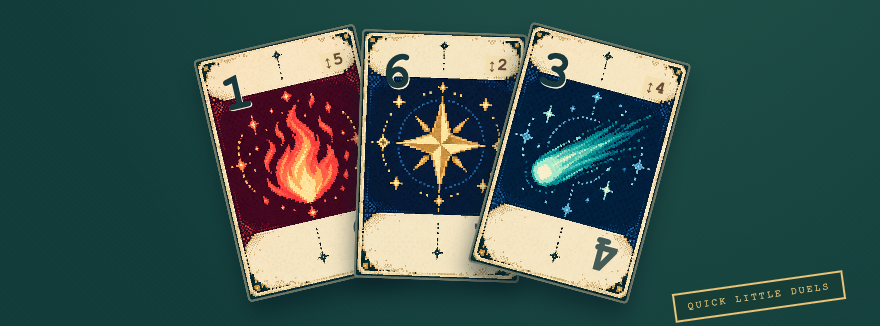
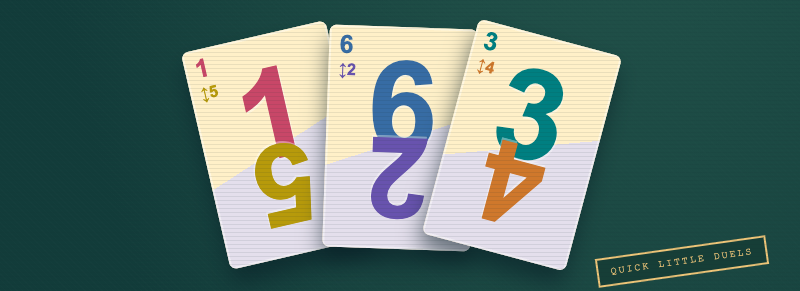
Finish AI playtesting, recovery checks, shared spending and numeric theme previews

diff --git a/flip-it/src/app.js b/flip-it/src/app.js
@@ -1,3 +1,4 @@
+import {trackArcadeGame} from '../../shared/ai/usage.js';
 import {installThemeControls} from '../../shared/theme.js';
 import {loadAI} from '../../shared/ai/config.js';
 import {chooseTurn} from '../../shared/ai/turn.js';
@@ -53,7 +54,7 @@ function notify(message) {
   clearTimeout(toastTimer); toastTimer = setTimeout(() => toast.classList.remove('visible'), 4500);
 }
 function tag() {
-  const label = mode === 'solo' ? 'VS THE DEALER' : mode === 'local' ? 'PASS & PLAY' : connected() ? session.team ? 'TEAM CONNECTED' : 'FRIEND CONNECTED' : 'FRIEND OFFLINE';
+  const label = mode === 'solo' ? (controllers().some(t=>t==='model')?'VS THE AI TABLE':'VS THE DEALER') : mode === 'local' ? 'PASS & PLAY' : connected() ? session.team ? 'TEAM CONNECTED' : 'FRIEND CONNECTED' : 'FRIEND OFFLINE';
   return '<span class="tag ' + (mode === 'online' && !connected() ? 'offline' : '') + '"><span class="dot"></span>' + label + '</span>';
 }
 function cardHtml(card, interactive = false, isPreview = false, tilt = 0) {
@@ -90,7 +91,7 @@ function renderMenu() {
 }
 function renderGame() {
   const v = view(), p = mySeat(), ns = names();
-  let html = '<section class="game-heading"><div><p class="eyebrow">A QUICK LITTLE CARD DUEL</p><h1>Flip it.</h1></div><div class="heading-actions">' + tag() + button('RULES ?', 'rules', 'outline compact') + button('MENU', 'menu', 'outline compact') + '</div></section>';
+  let html = '<section class="game-heading"><div><p class="eyebrow">A QUICK LITTLE CARD TABLE</p><h1>Flip it.</h1></div><div class="heading-actions">' + tag() + button('RULES ?', 'rules', 'outline compact') + button('MENU', 'menu', 'outline compact') + '</div></section>';
   if (mode === 'online' && !connected()) html += '<div class="disconnect" role="status"><span>Your friend is disconnected. The match is saved in the host’s tab.</span>' + button(session.seat ? 'JOIN AGAIN' : 'RECONNECT', session.seat ? 'join' : 'host', 'compact gold') + '</div>';
   html += aiStatusHtml({busy:aiBusy,error:aiError,controller:mode!=='online'||session?.seat===0});
   html += '<div class="table-layout"><aside class="sidebar"><div class="panel"><p class="eyebrow">FIRST TO TWO</p><div class="scoreboard">';
@@ -120,7 +121,7 @@ function renderTable(v) {
     }
     html += '</div></div>';
   }
-  if (v.pending !== null) html += '<div class="last-chance" role="status"><strong>LAST CHANCE!</strong> ' + (v.pending === p ? 'Your hand is empty. '+v.repliesRemaining+' reply/replies remain.' : esc(ns[v.pending])+' has an empty hand. Return cards to that player to stop the win.') + '</div>';
+  if (v.pending !== null) html += '<div class="last-chance" role="status"><strong>LAST CHANCE!</strong> ' + (v.pending === p ? 'Your hand is empty. '+v.repliesRemaining+' '+(v.repliesRemaining===1?'reply remains.':'replies remain.') : esc(ns[v.pending])+' has an empty hand. Return cards to that player to stop the win.') + '</div>';
   html += '<p class="table-instruction" role="status">' + (turn ? preview ? 'A peek at your other side.' : 'Make your next good move.' : esc(ns[v.turn]) + ' is thinking…') + '<small>' + (turn ? v.options.quickTurns ? 'Choose a space to cash out, then take one action.' : 'Use your ' + (v.beat ? 'right' : 'left') + ' space for this action.' : 'Every card has a second side. Watch what comes back.') + '</small></p><div class="zone-title"><span>YOUR PLAY SPACES</span><span>' + (v.options.quickTurns ? 'CHOOSE EITHER' : 'ACTION ' + (v.beat+1) + ' / 2') + '</span></div><div class="table-row">';
   for (let own=0;own<2;own++) {
     const set = v.table[p][own], canChoose = turn && availableLanes(v).includes(own);
@@ -143,11 +144,11 @@ function renderEnd(v) {
   const title = winner === null ? 'A little stalemate.' : esc(ns[winner]) + (match ? ' takes the match.' : ' takes the round.');
   const reason = r.reason === 'repeat' ? 'The same position came around three times. Drawn round: shuffle and try again.' : r.reason === 'limit' ? 'A long back-and-forth. Drawn round: a fresh deal keeps things moving.' : r.reason === 'survived' ? 'The last-chance reply couldn’t put cards back in their hand.' : 'An empty hand. A well-earned round.';
   const ready = mode === 'online' && session.ready[session.seat], guest = mode === 'online' && session.seat === 1;
-  return '<div class="ending pop"><div class="trophy" aria-hidden="true">✦</div><p class="eyebrow">' + (match ? 'GOOD COMPANY. GOOD GAME.' : 'A MOMENT TO CATCH YOUR BREATH.') + '</p><h2>' + title + '</h2><p>' + reason + '</p><div class="ending-score"><span>' + v.scores[0] + '</span><span class="muted">:</span><span>' + v.scores[1] + '</span></div>' + (match ? button(guest ? 'HOST CAN DEAL A REMATCH' : 'ONE MORE MATCH →', 'rematch', 'gold', guest || mode==='online' && !connected()) : button(ready ? 'WAITING FOR YOUR FRIEND…' : 'NEXT ROUND →', 'next', 'gold', ready || mode==='online' && !connected())) + button('CHANGE MATCH OPTIONS', 'menu', 'outline') + '</div>';
+  return '<div class="ending pop"><div class="trophy" aria-hidden="true">✦</div><p class="eyebrow">' + (match ? 'GOOD COMPANY. GOOD GAME.' : 'A MOMENT TO CATCH YOUR BREATH.') + '</p><h2>' + title + '</h2><p>' + reason + '</p><div class="ending-score"><span>' + v.scores.join(' : ') + '</span></div>' + (match ? button(guest ? 'HOST CAN DEAL A REMATCH' : 'ONE MORE MATCH →', 'rematch', 'gold', guest || mode==='online' && !connected()) : button(ready ? 'WAITING FOR YOUR FRIEND…' : 'NEXT ROUND →', 'next', 'gold', ready || mode==='online' && !connected())) + button('CHANGE MATCH OPTIONS', 'menu', 'outline') + '</div>';
 }
 function eventText(e) {
   const who = esc(names()[e.seat]);
-  let text = who + (e.kind==='flip' ? ' flipped their hand.' : e.kind==='take' ? ' took ' + e.count + ' cards and flipped them.' : e.kind==='add' ? ' added a ' + e.value + ' to the other set.' : ' played ' + e.count + ' × ' + e.value + '.');
+  let text = who + (e.kind==='flip' ? ' flipped their hand.' : e.kind==='take' ? ' took ' + e.count + ' cards and flipped them.' : e.kind==='add' ? ' added a ' + e.value + ' to '+esc(names()[e.targetSeat])+'’s set.' : ' played ' + e.count + ' × ' + e.value + '.');
   if (e.cashed) text += ' Cashed out ' + e.cashed + '.';
   if (e.returned.length) text += ' ' + e.returned.map(r => esc(names()[r.seat]) + ' received ' + r.count + ' flipped cards').join('; ') + '.';
   return text;
@@ -161,6 +162,7 @@ function startOffline(nextMode, options = prefs.options) {
   handoff=mode==='local'; resetSelection(); sound('deal'); render(); scheduleBot();
 }
 function afterOfflineMove(previousTurn) {
+  trackArcadeGame(matchId,'flip-it',game,mode);
   resetSelection();
   if (mode==='local' && game.phase==='playing' && offlineControllers[game.turn]==='human') { const oldSeat=seat;seat=game.turn;handoff=oldSeat!==seat; }
   if (game.phase==='matchOver') sound('win'); else if (game.phase==='roundOver') sound('reveal');
@@ -200,6 +202,7 @@ function scheduleBot() {
 }
 function updateOnline() {
   if (!session?.view) return render();
+  if(session.seat===0)trackArcadeGame(session.epoch,'flip-it',session.state,session.team?'Online team':'Online duel');
   const key=session.epoch+'/'+session.view.revision;
   if (lastViewKey!==key) { resetSelection(); lastViewKey=key; sound(session.view.phase==='matchOver'?'win':'tap'); }
   scene='game'; handoff=false;

diff --git a/similo/src/app.js b/similo/src/app.js
@@ -420,7 +420,7 @@ function usagePanelHTML(){
     const requests=data.requests.filter(r=>priceKey(r.provider,r.model)===key), summary=usageSummary(requests);
     return `<li><span>${esc(PROVIDERS[requests[0].provider]?.name||requests[0].provider)} · ${esc(requests[0].model)}</span><strong>${esc(formatSpend(summary))}</strong></li>`;
   }).join('');
-  const rows=[...data.games].sort((a,b)=>b.started-a.started).map(g=>`<tr><td><strong>${esc(DECKS[g.theme]?.name||g.theme)}</strong><small>${esc(new Date(g.started).toLocaleString())}<br>${esc(modes[g.mode]||g.mode)} · ${g.result==='win'?'Won':g.result==='loss'?'Lost':'Unfinished'}<span class="usage-mobile-stats">${g.usage.requests} requests · ${count(g.usage.inputTokens+g.usage.outputTokens)} tokens</span></small></td><td>${g.usage.requests}</td><td>${esc(formatSpend(g.usage))}${g.usage.unknown?`<small>${g.usage.unknown} unconfirmed / unpriced</small>`:''}</td><td>${count(g.usage.inputTokens+g.usage.outputTokens)}</td></tr>`).join('');
+  const rows=[...data.games].sort((a,b)=>b.started-a.started).map(g=>`<tr><td><strong>${esc(DECKS[g.theme]?.name||({'flip-it':'Flip it','midnight-backhand':'Backhand','midnight-closing':'Closing Time','midnight-heist':'Pocket Heist'}[g.theme]||g.theme))}</strong><small>${esc(new Date(g.started).toLocaleString())}<br>${esc(modes[g.mode]||g.mode)} · ${g.result==='win'?'Won':g.result==='loss'?'Lost':g.result==='draw'?'Draw':'Unfinished'}<span class="usage-mobile-stats">${g.usage.requests} requests · ${count(g.usage.inputTokens+g.usage.outputTokens)} tokens</span></small></td><td>${g.usage.requests}</td><td>${esc(formatSpend(g.usage))}${g.usage.unknown?`<small>${g.usage.unknown} unconfirmed / unpriced</small>`:''}</td><td>${count(g.usage.inputTokens+g.usage.outputTokens)}</td></tr>`).join('');
   return `<p class="help-text">This browser’s recorded games since ${esc(new Date(data.since).toLocaleDateString())}. Costs are in USD; estimates may differ from your provider’s bill. Earlier games cannot be backfilled.</p>
     <div class="usage-metrics"><div><span>Estimated total</span><strong>${esc(formatSpend(u))}</strong></div><div><span>Games recorded</span><strong>${data.games.length}</strong></div><div><span>AI requests</span><strong>${u.requests}</strong></div></div>
     <p class="help-text">${count(u.inputTokens)} input · ${count(u.outputTokens)} output tokens<br>${count(u.cachedTokens)} cached input · ${count(u.cacheWriteTokens)} cache-write tokens<br>${count(u.reasoningTokens)} reasoning tokens reported. Reasoning is already included in output.</p>

diff --git a/shared/ai/usage.js b/shared/ai/usage.js
@@ -39,11 +39,19 @@ export function trackGame(game, mode) {
   if(existing)Object.assign(existing,entry);else data.games.push(entry);
   save(data);
 }
+export function trackArcadeGame(id,kind,state,mode='AI table') {
+  if(!id||!state)return;
+  const data=ledger(),existing=data.games.find(g=>g.id===id),finished=['over','matchOver'].includes(state.phase);
+  const winner=state.phase==='matchOver'?state.scores?.indexOf(2):state.scores?.[0]===state.scores?.[1]?null:state.scores?.[0]>state.scores?.[1]?0:1;
+  const entry={id,game:kind,theme:kind,mode,started:existing?.started||Date.now(),state:finished?'finished':'in progress',result:finished?(winner===null?'draw':winner===0?'win':'loss'):null,aiTurns:[]};
+  if(existing&&JSON.stringify(existing)===JSON.stringify(entry))return;
+  if(existing)Object.assign(existing,entry);else data.games.push(entry);save(data);
+}
 export function beginUsage(game, role, settings) {
-  trackGame(game,`ai-${role}`);
+  if(game.arcadeGame)trackArcadeGame(game.id,game.arcadeGame,game);else trackGame(game,`ai-${role}`);
   const data=ledger(), entry={id:crypto.randomUUID(), gameId:game.id, round:game.round+1, role,
     provider:settings.provider, model:settings.models[settings.provider], effort:settings.efforts[settings.provider],
-    started:Date.now(), status:'pending', costUSD:null, costKind:'unknown', rates:modelPrice(settings)};
+    ...(game.arcadeGame?{turn:game.revision}:{}),started:Date.now(), status:'pending', costUSD:null, costKind:'unknown', rates:modelPrice(settings)};
   data.requests.push(entry);save(data);return entry.id;
 }
 export function markUsage(id, status) {
@@ -86,7 +94,7 @@ export function usageSummary(requests, games=[]) {
   const unknown=requests.filter(r=>r.costUSD===null).length+untracked;
   return {costUSD:requests.reduce((sum,r)=>sum+(number(r.costUSD)||0),0), unknown, untracked,
     pending:requests.filter(r=>r.status==='pending' && Date.now()-r.started<180000).length,
-    requests:requests.length, completedTurns:new Set(requests.filter(r=>r.status==='completed').map(r=>`${r.gameId}:${r.round}:${r.role}`)).size,
+    requests:requests.length, completedTurns:new Set(requests.filter(r=>r.status==='completed').map(r=>`${r.gameId}:${r.round}:${r.role}:${r.turn??''}`)).size,
     inputTokens:requests.reduce((sum,r)=>sum+(r.inputTokens||0),0),
     outputTokens:requests.reduce((sum,r)=>sum+(r.outputTokens||0),0),
     cachedTokens:requests.reduce((sum,r)=>sum+(r.cachedTokens||0),0),

diff --git a/midnight/src/app.js b/midnight/src/app.js
@@ -1,3 +1,4 @@
+import {trackArcadeGame} from '../../shared/ai/usage.js';
 import {installThemeControls} from '../../shared/theme.js';
 import {loadAI} from '../../shared/ai/config.js';
 import {chooseTurn} from '../../shared/ai/turn.js';
@@ -54,7 +55,7 @@ function otherLocked() {
   return v.type === 'backhand' ? Boolean(v.pending[p]) : v.phase === 'guard' ? Boolean(v.guards[p]) : Boolean(v.raids[p]);
 }
 function tag() {
-  const label = mode === 'solo' ? 'VS THE DEALER' : mode === 'local' ? 'PASS & PLAY' : connected() ? session.team ? 'TEAM CONNECTED' : 'PEER CONNECTED' : linkStatus === 'idle' ? 'PRIVATE TABLE' : 'PARTNER OFFLINE';
+  const label = mode === 'solo' ? (selectedOpponent==='model'?'VS AI':'VS THE DEALER') : mode === 'local' ? 'PASS & PLAY' : connected() ? session.team ? 'TEAM CONNECTED' : 'PEER CONNECTED' : linkStatus === 'idle' ? 'PRIVATE TABLE' : 'PARTNER OFFLINE';
   return '<span class="tag"><span class="dot"></span>' + label + '</span>';
 }
 function render() {
@@ -226,6 +227,7 @@ function scheduleBot() {
   },450);
 }
 function afterOfflineMove(previousPhase) {
+  trackArcadeGame(matchId,'midnight-'+game.type,game,mode);
   if (game.phase !== previousPhase) { chosen = null; source = null; }
   if (game.phase === 'over' && countedGame !== game) {
     const win = winner(game);
@@ -266,6 +268,7 @@ async function act(action) {
 }
 function updateOnline() {
   if (!session?.view) return render();
+  if(session.seat===0)trackArcadeGame(session.epoch,'midnight-'+session.state.type,session.state,session.team?'Online team':'Online duel');
   const v = session.view;
   const key = session.epoch + '/' + v.type + '/' + v.round + '/' + v.phase;
   if (lastViewKey !== key) {

diff --git a/index.html b/index.html
@@ -8,11 +8,14 @@
 <link rel="icon" href="flip-it/assets/favicon.svg" type="image/svg+xml">
 <meta name="description" content="A small collection of browser games.">
 
+<link rel="stylesheet" href="shared/theme.css">
 <style>
   :root {
     --bg: #050816; --text: #f4f7ff; --dim: #a9b8d9; --accent: #7fe9ff; --accent2: #a18cff;
     --card: rgba(14, 22, 58, .55); --edge: rgba(155, 184, 255, .22);
   }
+  :root[data-color-theme=light]{--bg:#f4edda;--text:#233d35;--dim:#536954;--accent:#32694e;--accent2:#805a1b;--card:#fff9eb;--edge:#9aa98d80}
+  header .appearance-control{margin-top:20px}
   * { box-sizing: border-box; }
   html, body { margin: 0; min-height: 100%; }
   body {
@@ -103,5 +106,6 @@
 
   <footer>Source on <a href="https://github.com/nathsou/games">GitHub</a>.</footer>
 </main>
+<script type="module">import {installThemeControls} from "./shared/theme.js";installThemeControls(document.querySelector("header"));</script>
 </body>
 </html>

diff --git a/shared/ai/turn.js b/shared/ai/turn.js
@@ -16,7 +16,7 @@ export async function chooseTurn(description,{settings=loadAI(),signal,gameId='a
   let correction='';
   for (let attempt=0;attempt<2;attempt++) {
     const {url,body}=buildTurnRequest(settings,description,correction);
-    const usageId=beginUsage({id:gameId,arcadeGame:description.game,round,history:[],started:Date.now(),phase:'playing'},role,settings);
+    const usageId=beginUsage({id:gameId,arcadeGame:description.game,round,revision:description.observation.revision,history:[],started:Date.now(),phase:'playing'},role,settings);
     let data;
     try {data=await request(url,{method:'POST',headers:headers(provider,key),body:JSON.stringify(body),signal},key);}
     catch(error){if(error.usageResponse)finishUsage(usageId,error.usageResponse);markUsage(usageId,signal?.aborted?'cancelled':'failed');throw error;}

diff --git a/flip-it/index.html b/flip-it/index.html
@@ -4,7 +4,7 @@
   <meta charset="utf-8">
   <meta name="viewport" content="width=device-width, initial-scale=1">
   <meta name="theme-color" content="#123c3a">
-  <meta name="description" content="A little friendly rivalry. Flip cards, build sets and outwit your favourite opponent in a quick two-player duel.">
+  <meta name="description" content="A little friendly rivalry. Flip cards, build sets and outwit your favourite opponent at a quick two-to-five-player table.">
   <title>Flip it · A little friendly rivalry</title>
   <link rel="icon" href="assets/favicon.svg" type="image/svg+xml">
   <link rel="stylesheet" href="style.css">

diff --git a/midnight/src/bot.js b/midnight/src/bot.js
@@ -3,6 +3,8 @@ import {applyAction, legalActions, reserve} from './rules.js';
 // Bots never inspect an opponent's hidden choice. Simultaneous decisions are
 // prepared before the human commits; heist guesses use only revealed defenses.
 export function botAction(state, player, random = Math.random) {
+  // A closed lot's replacement is hidden. Lookahead scores only the known lots.
+  if(state.type==='closing')state={...state,deck:[]};
   const choices = legalActions(state, player);
   if (!choices.length) return null;
   if (state.phase === 'reveal') return choices[0];

diff --git a/shared/theme.css b/shared/theme.css
@@ -31,3 +31,4 @@
 
 html[data-game=midnight][data-color-theme=light]{--cream:#233d35;--paper:#fff0c8;--felt-deep:#e0e9d5;--night:#f9f1e0;--panel:#fff9eb;--line:#9aa98d80}
 html[data-game=midnight][data-color-theme=light] body{color:var(--cream)}
+[data-color-theme=light] .arcade-ai-dialog input:not([type=checkbox]),[data-color-theme=light] .arcade-ai-dialog select{background:#fffdf3;color:#233d35;border-color:#9bae93}

diff --git a/midnight/src/session.js b/midnight/src/session.js
@@ -115,6 +115,7 @@ export class TableSession {
   }
   prepareBot() {
     if (!this.team || this.seat !== 0 || !this.state || ['over', 'reveal'].includes(this.state.phase)) return;
+    if(this.state.type==='closing'&&this.state.turn!==1)return;
     const key = contextFor(this.epoch, this.state)+(this.state.type==='closing'?'/'+this.state.revision:'');
     if (this.botKey !== key) {
       this.botKey = key;

diff --git a/shared/ai/README.md b/shared/ai/README.md
@@ -1,0 +1,42 @@
+# Shared card-game AI
+
+Flip it, Similo and all three Midnight Table games use one provider client, configuration store and usage ledger. No SDK, package, backend or extra runtime dependency is needed. OpenAI uses Responses with `store: false` and strict JSON schemas; OpenRouter uses Chat Completions, and Anthropic uses Messages. Provider-specific model and effort preferences remain independently configurable. Unsupported combinations report an error without substitution.
+
+`config.js` reads the collection-wide settings and migrates Similo's previous settings. Remembered keys are opt-in. Unremembered keys remain in module memory until the tab closes/reloads; they do not move to another game page. Remembered settings synchronize through browser storage events. Keys are excluded from game snapshots, invites, AI observations, replays and spending history. Forgetting keys clears both the new store and migrated legacy credentials. If browser storage is denied, settings and usage remain available for the current visit.
+
+`client.js` handles provider requests, model catalogs, role-specific optional images, response extraction and key-redacted errors. `turn.js` chooses an index from a supplied legal candidate list. Invalid responses get one correction request; illegal output never mutates a game. Similo preserves its own detailed decision schema and role validation while using this transport. Each game has timeout, pause and retry controls. Configuration never includes a game state.
+
+`usage.js` records returned token counts, reasoning/cache tokens, status and estimated/reported spending for every request. It preserves old Similo history. Provider pricing preferences and the existing Similo spending panel apply to all card games. Cancelled requests may still be billed even if no response arrives. Completed card-game turns include a revision so multiple moves in one round are counted separately. Brief model rationales stay in the owning seat's game memory and do not enter the usage ledger or peer messages.
+
+## Information and prompts
+
+Flip it supports two to five seats: separate human browsers can play against each other with up to three extra model/dealer opponents, or share a hand against up to four opponents. Only the host calls providers. Each prompt receives that AI seat's own hand, public sets/history, hidden hand counts, and its own prior brief explanations. Candidate annotations give exact cash-outs and returns. The first empty hand retains priority throughout the other players' one-action Last Chance replies.
+
+Midnight Table's simultaneous decisions capture redacted observations before the human locks a bid or defense. An opponent never receives another hand, guard, raid choice or future deck. Closing Time includes named ownership and exact public closing outcomes. Pocket Heist includes unspent alarm/bluff counts calculated solely from revealed defenses. Zero unspent alarms proves a concealed defense is a bluff. The offline dealer uses the same redacted boundary and excludes hidden replacement lots from lookahead.
+
+## Live prompt iteration · 2026-10-03
+
+Only **GPT-6-luna** was called for this task, using `low` reasoning and a 4,096 output-token budget. Runtime preferences still default to the existing Similo choices, which users may change.
+
+1. Compared a rules prompt and a payoff/counter prompt across six tactical positions: **12/12 legal responses, 10/12 tactical passes**. Failures involved auction ownership and publicly exhausted alarms.
+2. Added named ownership, exact public auction outcomes, explicit defense inventories, and pending-finisher priority: **6/6 legal responses and tactical passes**. This is a small tactical smoke test, not a general win-rate benchmark. Reports: [initial](EVALUATION.json), [refined](EVALUATION_REFINED.json).
+3. Played complete browser games using direct provider calls: **65 calls across four completed games**. Flip it used 20; Backhand 9; Closing Time 26; Pocket Heist 10. No browser errors. The scripted human made simple legal choices; these results demonstrate functional play, not a competitive-strength ranking. [Live match report](LIVE_PLAYTEST.json).
+
+The `.env` file requested by the user was denied direct filesystem access; the evaluator used the already available `OPENAI_API_KEY` process environment instead. The browser tests passed it to module memory with remembering disabled. No credential was printed, committed, or written into a report.
+
+Run the optional live evaluator from the repository root:
+
+```sh
+OPENAI_API_KEY=… node shared/ai/tools/evaluate.mjs --refined-only
+```
+
+Alternatively, `--key-file /path/to/.env` reads only `OPENAI_API_KEY` when file permissions allow it. The evaluator is fixed to GPT-6-luna and writes token usage plus brief move explanations, never request headers or credentials. Every run makes six billed calls with `--refined-only`, or twelve without it.
+
+## Validation
+
+- All **104 automated checks passed**, including the existing Spacegolf suite. Deterministic rule/privacy tests cover all option combinations at 2–5 seats, multiple Last Chance replies, cross-seat targets, card conservation and redacted five-seat peer updates.
+- Shared tests cover settings migration, memory-only/forgotten keys, schema payloads, one correction, key redaction, usage recording and redacted dealer playthroughs.
+- Browser checks cover complete solo and real WebRTC matches, mixed model/dealer seats, team AI in every Midnight game, both Similo role/image requests, pause/retry without state changes, cross-tab settings and Light/Dark/System themes. The final suite completed ten browser scenarios with 199 mocked provider responses and no browser errors. Browser provider responses were mocked for these protocol/UI checks; the separate live matches above used the actual API. [Browser report](BROWSER_PLAYTEST.json), [recovery and Similo report](RECOVERY_PLAYTEST.json).
+- Desktop/phone layouts checked at widths 320, 390, 768 and 1280 with no horizontal overflow.
+
+Provider setup follows the official [GPT-6-luna model documentation](https://developers.openai.com/api/docs/models/gpt-6-luna) and [prompt guidance](https://developers.openai.com/api/docs/guides/prompt-engineering). UI themes live separately in `shared/theme.js` and `shared/theme.css`; Similo retains its existing display controls.

diff --git a/flip-it/README.md b/flip-it/README.md
@@ -1,6 +1,6 @@
 # Flip it
 
-A two-player shedding duel with original pixel-art cards and three independent match options. Vanilla HTML, CSS and JavaScript: no build, npm dependencies, CDN scripts, remote images or external fonts.
+A two-to-five-player shedding game with large, crisp double-value cards and three independent match options. Vanilla HTML, CSS and JavaScript: no build, npm dependencies, CDN scripts, remote images or external fonts.
 
 Run `npm start` from this folder and open `http://localhost:8080/flip-it/`. Run `npm test` for deterministic rule, privacy, peer session and QR tests, or `npm run playtest` for 400 reproducible dealer rounds. The server serves the collection root too. Publish this folder's index, stylesheet, src, assets and preview together; the repository's Pages workflow does this.
 
@@ -11,14 +11,14 @@ All three default ON. The host chooses them before a match; both screens show th
 | Option | ON | OFF |
 | --- | --- | --- |
 | Quick turns | One action each, alternating; choose either play space | Two actions, left then right. Opening player gets only the right action |
-| Compact deck | 24 cards, six ranks, 12 cards each | 40 cards, ten ranks, 20 cards each |
-| Last chance | Emptying a hand gives the opponent exactly one counter action | Emptying a hand wins immediately |
+| Compact deck | 24 cards, six ranks, dealt clockwise | 40 cards, ten ranks, dealt clockwise |
+| Last chance | Emptying a hand gives every other player exactly one counter action | Emptying a hand wins immediately |
 
-First to two round wins. Starting player alternates after every round, including draws. Three appearances of the same full position draw the round. A round also draws after 120 actions (compact) or 180 (full), except that a pending last-chance exchange finishes first. Draws award no win; deal again.
+First to two round wins. Starting player rotates after every round, including draws. Three appearances of the same full position draw the round. A round also draws after 120 actions (compact) or 180 (full), except that a pending last-chance exchange finishes first. Draws award no win; deal again.
 
 ## Rules
 
-Each card has two ranks, an active top rank and an inactive opposite rank. The small ↕ number repeats its inactive value upright. The entire hand flips only when taking a Flip action. Cards picked up from the table always flip individually. There is no draw pile.
+Each card has two ranks, an active top rank and an inactive opposite rank. The large upside-down number shows its inactive value; a corner badge repeats it upright. The entire hand flips only when taking a Flip action. Cards picked up from the table always flip individually. There is no draw pile.
 
 At the beginning of an action, the set in the acting player's chosen (or prescribed) play space is discarded. Then perform one action:
 
@@ -57,3 +57,13 @@ The host owns the authoritative state and sees the dealt hands internally. This 
 Touch and mouse controls have text labels. Keyboard: 1–9 or 0 selects all cards of rank 1–10; Enter plays; F flips; left/right changes space in quick-turn mode; Escape clears selection or closes a dialog. Sound is synthesized with Web Audio and defaults off. Reduced motion is respected, and FX can be disabled. Preferences are stored locally; storage denial falls back to memory.
 
 Generated assets and exact prompt: [assets/README.md](assets/README.md). Browser playtest findings: [PLAYTEST.md](PLAYTEST.md).
+
+## AI opponents and shared appearance
+
+Choose zero to four AI seats in the lobby, up to five total players. Solo includes at least one opponent. A WebRTC duel has two human seats and room for three additional opponents; team play shares one human seat and can face four opponents. Each opponent can use the configured model or the free offline dealer. The host runs every AI move, including during a human duel; guests never receive the host's key or any other hand. Lobby changes apply to a new match.
+
+AI settings are shared with Similo and Midnight Table: provider, per-provider model and reasoning effort, output budget, pricing, and opt-in remembered credentials. Unremembered keys stay in tab memory. OpenAI uses Responses with a strict candidate-index schema. One invalid response gets one correction attempt. Pause, retry, timeout and settings controls preserve the game. Other players' names and logs are data, not instructions. AI memory contains only its own previous short explanations; other players' sealed notes remain private.
+
+Light, Dark and System are available in the top bar, shared with the other card games. System tracks device appearance changes live. Cards remain accessible text rather than baked image numerals.
+
+Prompt evaluations and live browser checks are documented in [shared AI notes](../shared/ai/README.md).
